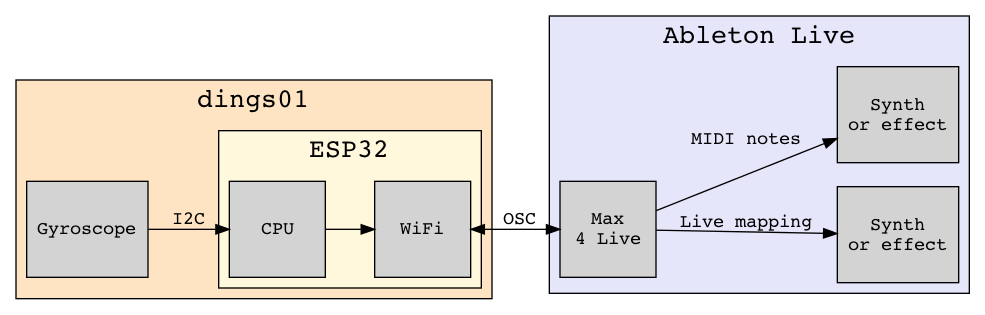
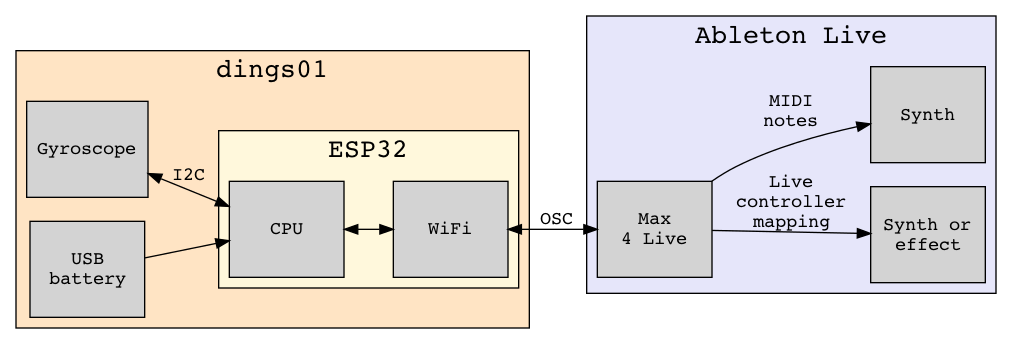
docs

diff --git a/dings01/docs/README.md b/dings01/docs/README.md
@@ -3,8 +3,20 @@
 ## Components
 ![components](./diagrams/components.png)
 
-## Firmware
+## Microcontroller
 
+* [Geekcreit ESP32 microcontroller](https://www.banggood.com/no/ESP32-Development-Board-WiFibluetooth-Ultra-Low-Power-Consumption-Dual-Cores-ESP-32-ESP-32S-Board-p-1109512.html)
+
+## Gyroscope
+
+* [Adafruit LSM9DS1](https://learn.adafruit.com/adafruit-lsm9ds1-accelerometer-plus-gyro-plus-magnetometer-9-dof-breakout)
+
+
+## Battery
+
+Any plain USB battery pack will do
+
+## Firmware
 
 Firmware for the ESP32 is implemented in C++ using the Arduino platform.
 
@@ -19,8 +31,12 @@ The device can be downloaded here: [dings01.amxd](../m4l/dings01/dings01.amxd)
 
 ![photo3](./screenshots/m4ldevice.png)
 
-## Prototype photos
+## Photos of prototype
 
 ![photo1](./images/dings01_photo_1.jpg)
+
+
 ![photo2](./images/dings01_photo_2.jpg)
+
+
 ![photo3](./images/dings01_photo_3.jpg)
